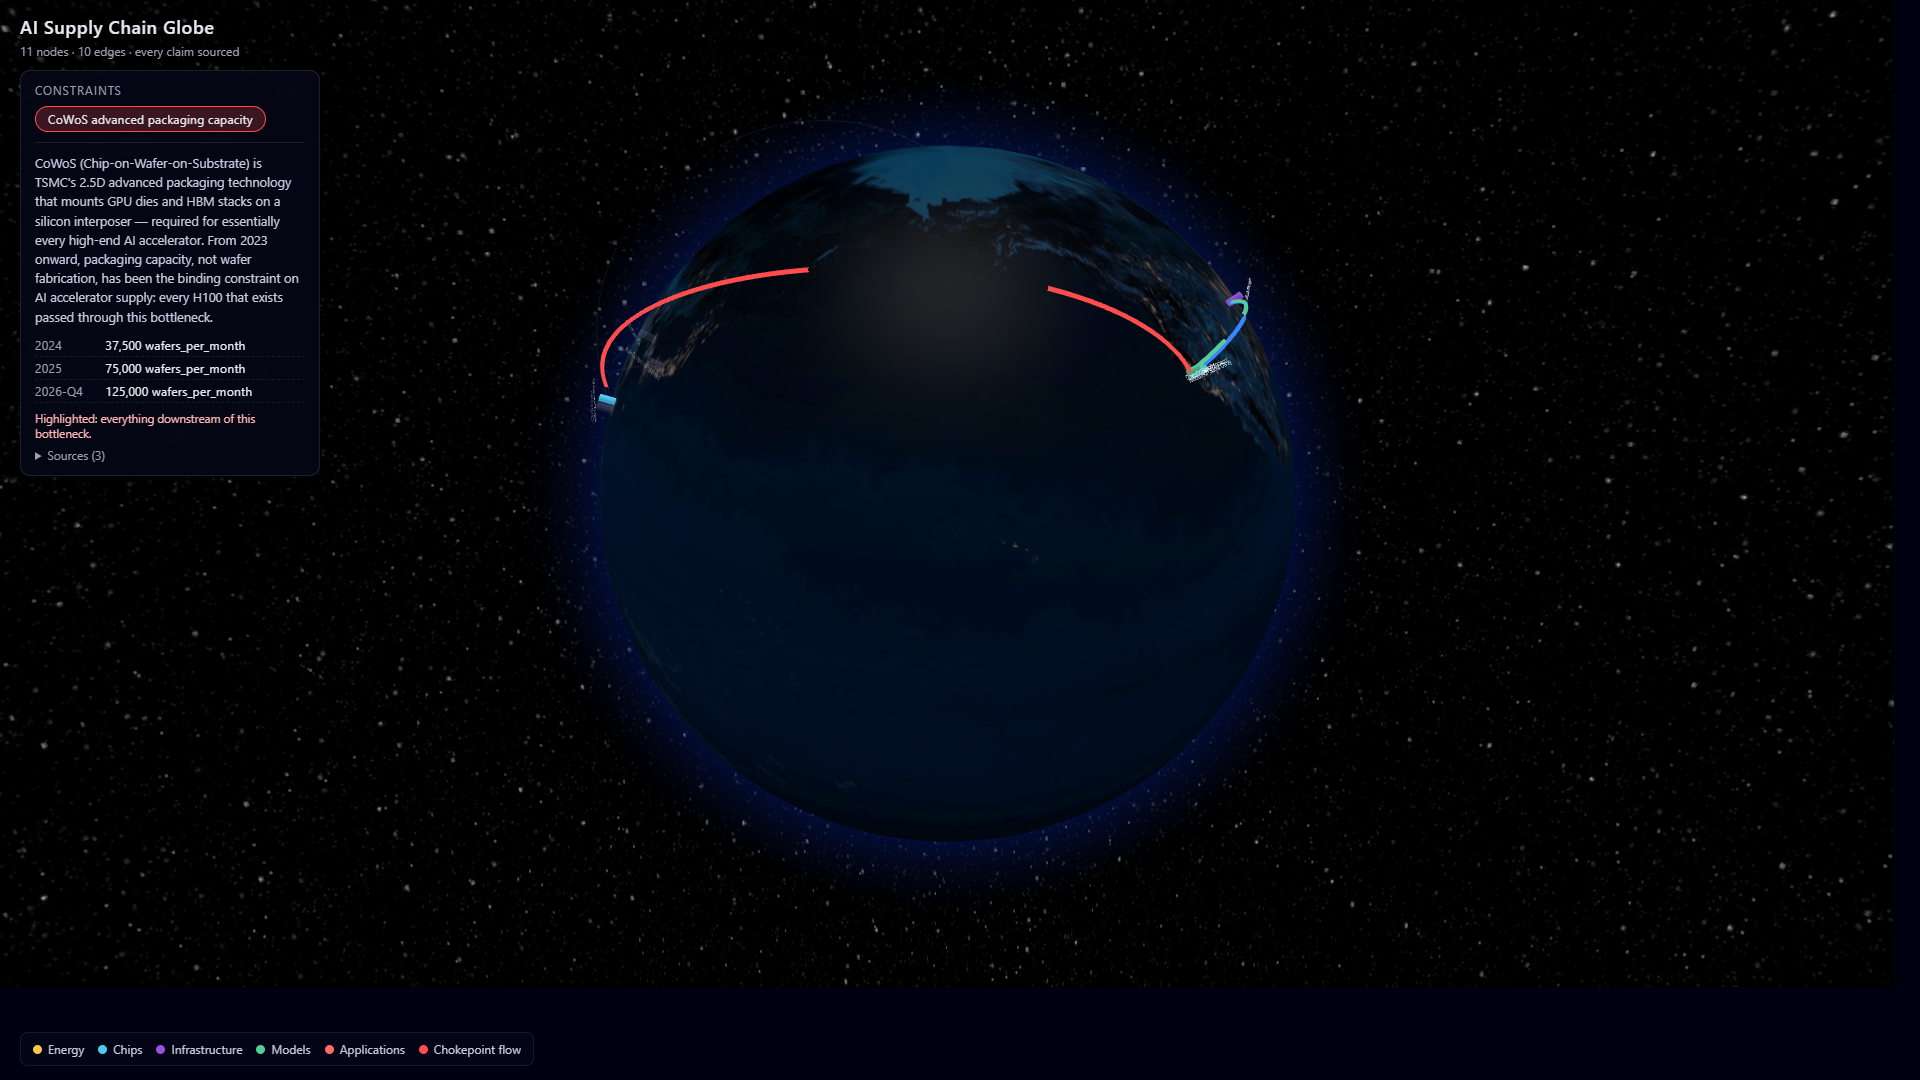
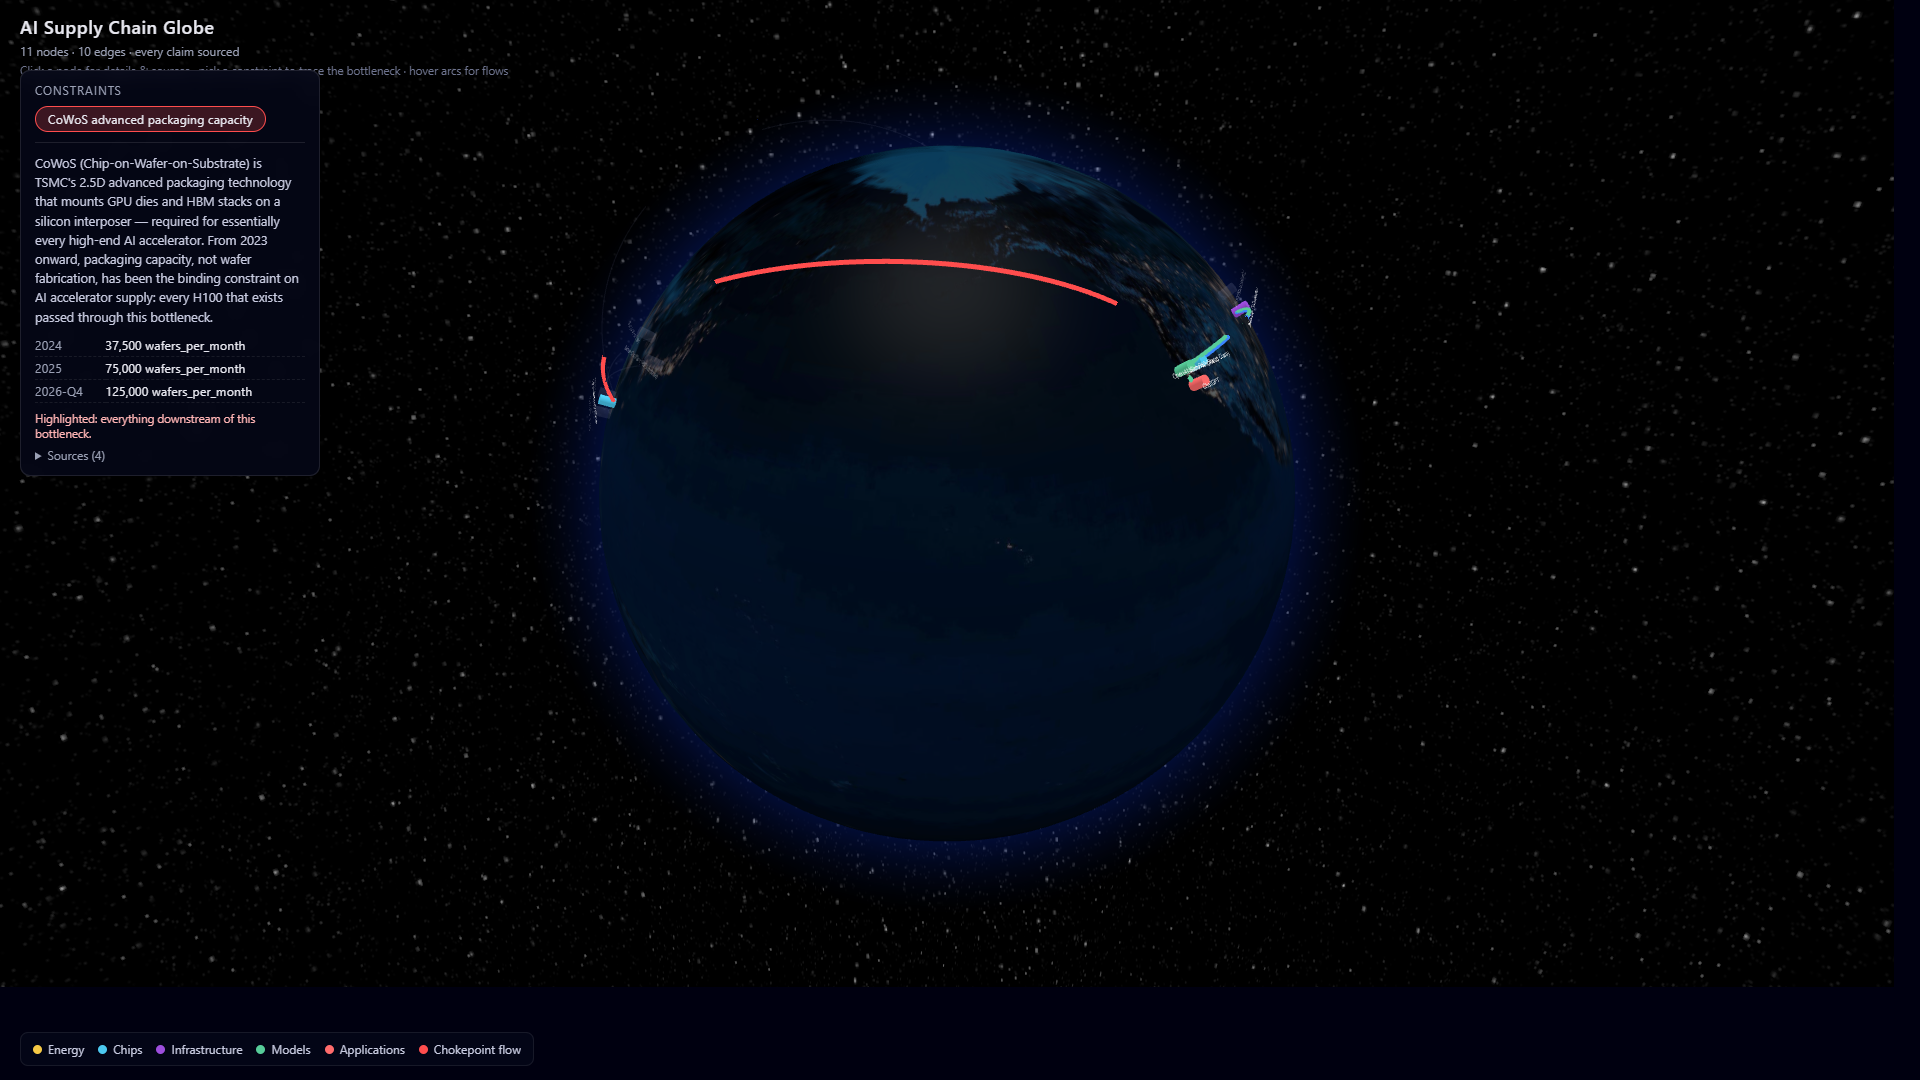
UI legibility + research-grade sources (owner feedback round 1)
UI:
- Cartographic displacement: co-located nodes (OpenAI/ChatGPT/Nvidia,
  the two Des Moines nodes, Taiwan cluster) spread on a small ring,
  display-only - true coordinates untouched in data and side panel
- Arc animation time now scales with arc length so transoceanic flows
  no longer race; bigger point radius for easier clicking
- Header hint line for first-time/business viewers
- README note documenting the displacement technique

Sources (5 new, all dated):
- SemiAnalysis "AI Capacity Constraints: CoWoS and HBM" (2023-07-05),
  verbatim free-portion quote, on the constraint + HBM edge
- SemiAnalysis GPT-4 architecture deep-dive (2023-07-10) on OpenAI node
  + Azure->OpenAI edge
- Epoch AI GPT-4 training compute estimate: first real edge weight
  (2e25 FLOP, +/-5x, marked as estimate) on the compute edge
- Asianometry "What's Next For ASML?" (2024-06-16) with EUV throughput
  quote on the ASML node

Screenshots recaptured with the new visuals.

diff --git a/frontend/src/components/GlobeView.tsx b/frontend/src/components/GlobeView.tsx
@@ -31,10 +31,64 @@ interface ArcDatum {
   color: string;
   label: string;
   emphasized: boolean;
+  animTime: number;
 }
 
 function escapeHtml(s: string): string {
   return s.replace(/&/g, "&amp;").replace(/</g, "&lt;").replace(/>/g, "&gt;");
+}
+
+/**
+ * Display-only cartographic displacement: nodes within ~2° of each other
+ * (OpenAI/ChatGPT share coordinates; Nvidia is ~60km away; the two Des
+ * Moines nodes nearly touch) get spread on a small ring around their
+ * shared centroid so each dot is legible and clickable. True coordinates
+ * remain untouched in the vault and in the side panel.
+ */
+function displacedPositions(nodes: GraphNode[]): Map<string, { lat: number; lng: number }> {
+  const CLUSTER_DEG = 2.2;
+  const RING_DEG = 1.6;
+  const groups: GraphNode[][] = [];
+  for (const node of nodes) {
+    const group = groups.find((g) =>
+      g.some(
+        (m) =>
+          Math.abs(m.location.lat - node.location.lat) < CLUSTER_DEG &&
+          Math.abs(m.location.lon - node.location.lon) < CLUSTER_DEG
+      )
+    );
+    if (group) group.push(node);
+    else groups.push([node]);
+  }
+
+  const positions = new Map<string, { lat: number; lng: number }>();
+  for (const group of groups) {
+    if (group.length === 1) {
+      const n = group[0];
+      positions.set(n.id, { lat: n.location.lat, lng: n.location.lon });
+      continue;
+    }
+    const centerLat = group.reduce((s, n) => s + n.location.lat, 0) / group.length;
+    const centerLng = group.reduce((s, n) => s + n.location.lon, 0) / group.length;
+    const sorted = [...group].sort((a, b) => a.id.localeCompare(b.id));
+    sorted.forEach((n, i) => {
+      const angle = (2 * Math.PI * i) / sorted.length - Math.PI / 2;
+      positions.set(n.id, {
+        lat: centerLat + RING_DEG * Math.sin(angle),
+        lng: centerLng + (RING_DEG * Math.cos(angle)) / Math.max(0.3, Math.cos((centerLat * Math.PI) / 180)),
+      });
+    });
+  }
+  return positions;
+}
+
+/** Great-circle angular distance in degrees. */
+function angularDistanceDeg(aLat: number, aLng: number, bLat: number, bLng: number): number {
+  const r = Math.PI / 180;
+  const cosD =
+    Math.sin(aLat * r) * Math.sin(bLat * r) +
+    Math.cos(aLat * r) * Math.cos(bLat * r) * Math.cos((aLng - bLng) * r);
+  return Math.acos(Math.min(1, Math.max(-1, cosD))) / r;
 }
 
 export default function GlobeView({
@@ -66,16 +120,17 @@ export default function GlobeView({
     globe.renderer().domElement.addEventListener("pointerdown", stop, { once: true });
   }, []);
 
+  const displayPos = useMemo(() => displacedPositions(graph.nodes), [graph]);
+
   const points = useMemo<PointDatum[]>(
     () =>
       graph.nodes
         .filter((node) => !hiddenLayers.has(node.layer))
         .map((node) => ({
           node,
-          lat: node.location.lat,
-          lng: node.location.lon,
+          ...displayPos.get(node.id)!,
         })),
-    [graph, hiddenLayers]
+    [graph, hiddenLayers, displayPos]
   );
 
   const nodeById = useMemo(() => {
@@ -95,13 +150,20 @@ export default function GlobeView({
         // low-substitutability alone is common in this graph and is shown
         // in tooltips instead, so red stays scarce and meaningful.)
         const emphasized = (e.constraints?.length ?? 0) > 0;
+        const start = displayPos.get(from.id)!;
+        const end = displayPos.get(to.id)!;
+        // Constant dash time makes long arcs sweep absurdly fast; scale
+        // animation time with distance so flow speed feels uniform.
+        const dist = angularDistanceDeg(start.lat, start.lng, end.lat, end.lng);
+        const animTime = Math.min(9000, Math.max(2000, 1400 + dist * 65));
         return [
           {
             id: e.id,
-            startLat: from.location.lat,
-            startLng: from.location.lon,
-            endLat: to.location.lat,
-            endLng: to.location.lon,
+            startLat: start.lat,
+            startLng: start.lng,
+            endLat: end.lat,
+            endLng: end.lng,
+            animTime,
             color: emphasized ? "#ff4d4d" : FLOW_COLORS[e.flow_type] ?? "#888",
             label: `<div class="tooltip"><b>${escapeHtml(from.name)} → ${escapeHtml(
               to.name
@@ -114,7 +176,7 @@ export default function GlobeView({
           },
         ];
       }),
-    [graph, nodeById, hiddenLayers]
+    [graph, nodeById, hiddenLayers, displayPos]
   );
 
   const pointLabel = (d: object) => {
@@ -153,7 +215,7 @@ export default function GlobeView({
       pointAltitude={(d: object) =>
         (d as PointDatum).node.id === selectedId ? 0.09 : 0.04
       }
-      pointRadius={0.55}
+      pointRadius={0.75}
       pointLabel={pointLabel}
       onPointClick={(d: object) => onSelect((d as PointDatum).node.id)}
       onGlobeClick={() => onSelect(null)}
@@ -170,7 +232,7 @@ export default function GlobeView({
       }}
       arcDashLength={0.45}
       arcDashGap={0.25}
-      arcDashAnimateTime={2500}
+      arcDashAnimateTime={(d: object) => (d as ArcDatum).animTime}
       arcAltitudeAutoScale={0.4}
       arcLabel={(d: object) => (d as ArcDatum).label}
       labelsData={points}

diff --git a/frontend/src/App.tsx b/frontend/src/App.tsx
@@ -75,6 +75,10 @@ export default function App() {
           {graph.meta.counts.nodes} nodes · {graph.meta.counts.edges} edges ·
           every claim sourced
         </span>
+        <span className="header-hint">
+          Click a node for details &amp; sources · pick a constraint to trace
+          the bottleneck · hover arcs for flows
+        </span>
       </header>
       <GlobeView
         graph={graph}

diff --git a/frontend/src/index.css b/frontend/src/index.css
@@ -47,6 +47,13 @@ body,
   color: #9aa0b4;
 }
 
+.header-hint {
+  display: block;
+  margin-top: 3px;
+  font-size: 0.72rem;
+  color: #6f7590;
+}
+
 .legend {
   position: absolute;
   bottom: 14px;

diff --git a/vault/edges/azure-wdm-to-openai.md b/vault/edges/azure-wdm-to-openai.md
@@ -4,9 +4,9 @@ from: azure-west-des-moines
 to: openai-hq
 flow_type: compute
 volume:
-  value: null
-  unit: null
-  as_of: 2022-Q3
+  value: 2.0e+25
+  unit: flop_training_total_gpt4_estimate
+  as_of: 2023-03
 lead_time_weeks: null
 constraint_level: high
 substitutability: low
@@ -14,8 +14,11 @@ constraints: []
 notes: >
   Training compute. The West Des Moines campus hosted the supercomputer
   Microsoft built exclusively for OpenAI, on which GPT-4 was trained
-  (training completed August 2022 per AP reporting). Substitutability low:
-  Azure was OpenAI's exclusive cloud provider during this period.
+  (training completed August 2022 per AP reporting). Volume is Epoch AI's
+  GPT-4 training compute estimate (~2e25 FLOP, stated accurate within a
+  factor of five) — an independent research estimate, not a disclosure.
+  Substitutability low: Azure was OpenAI's exclusive cloud provider during
+  this period.
 sources:
   - url: https://thehill.com/homenews/ap/ap-technology/ap-artificial-intelligence-technology-behind-chatgpt-was-built-in-iowa-with-a-lot-of-water/
     title: "AP: Artificial intelligence technology behind ChatGPT was built in Iowa — with a lot of water (syndicated)"
@@ -26,6 +29,15 @@ sources:
     title: "Microsoft announces new supercomputer, lays out vision for future AI work"
     date: 2020-05-19
     supports: exclusive Azure supercomputer built for OpenAI
+  - url: https://epoch.ai/data-insights/models-over-1e25-flop
+    title: "Over 30 AI models have been trained at the scale of GPT-4 (Epoch AI, accessed 2026-06)"
+    date: 2026-06
+    quote: "GPT-4 was the first model trained at this scale (~2e25 FLOP), released in March 2023."
+    supports: volume (training compute estimate)
+  - url: https://semianalysis.com/2023/07/10/gpt-4-architecture-infrastructure/
+    title: "GPT-4 Architecture, Infrastructure, Training Dataset, Costs, Vision, MoE (SemiAnalysis)"
+    date: 2023-07-10
+    supports: training infrastructure analysis (cluster scale, parallelism)
 ---
 
 # azure-west-des-moines → openai-hq

diff --git a/vault/nodes/models/openai-hq.md b/vault/nodes/models/openai-hq.md
@@ -22,6 +22,10 @@ sources:
     title: "OpenAI surges past 1M sf of offices in SF with latest Mission Bay lease"
     date: 2026-03-16
     supports: location (Mission Bay, San Francisco campus)
+  - url: https://semianalysis.com/2023/07/10/gpt-4-architecture-infrastructure/
+    title: "GPT-4 Architecture, Infrastructure, Training Dataset, Costs, Vision, MoE (SemiAnalysis)"
+    date: 2023-07-10
+    supports: GPT-4 scale and architecture analysis (independent estimates)
 ---
 
 # OpenAI (San Francisco)
@@ -34,6 +38,11 @@ buildings (1455/1515 Third Street, 550 Terry Francois Blvd, 1800 Owens St).
 
 Coordinates are the San Francisco city centroid, precision `city` — the
 multi-building campus makes a single site coordinate misleading anyway.
+
+Scale context (SemiAnalysis estimates, not OpenAI disclosures): GPT-4 as a
+~1.8T-parameter mixture-of-experts model trained on ~13T tokens — the
+demand signal that, multiplied across every frontier lab, is what pulls on
+every upstream node in this graph.
 
 **Reviewer notes:** In M2, the *training cluster* should become its own
 node (sited at the Azure campus) and the *model artifact* (GPT-4) a third,

diff --git a/vault/edges/sk-hynix-to-tsmc-ap6.md b/vault/edges/sk-hynix-to-tsmc-ap6.md
@@ -26,6 +26,11 @@ sources:
     title: "HBM3 Initially Exclusively Supplied by SK Hynix, Samsung Rallies Fast After AMD Validation"
     date: 2024-03-13
     supports: initial exclusivity, later second-sourcing
+  - url: https://newsletter.semianalysis.com/p/ai-capacity-constraints-cowos-and
+    title: "AI Capacity Constraints: CoWoS and HBM (SemiAnalysis)"
+    date: 2023-07-05
+    quote: "CoWoS and HBM are already majority AI-facing technologies, so all slack was already absorbed in Q1. With GPU demand exploding, these are the parts of the supply chain that just cannot keep up and are bottlenecking GPU supply."
+    supports: HBM as a co-binding constraint with CoWoS (2023)
 ---
 
 # sk-hynix-icheon → tsmc-ap6-zhunan

diff --git a/vault/constraints/cowos-capacity.md b/vault/constraints/cowos-capacity.md
@@ -37,6 +37,11 @@ sources:
     title: "TSMC Ramps up CoWoS Capacity across Taiwan, Projected to Nearly Triple by 2026"
     date: 2024-12-13
     supports: 2026 projection, multi-site expansion
+  - url: https://newsletter.semianalysis.com/p/ai-capacity-constraints-cowos-and
+    title: "AI Capacity Constraints: CoWoS and HBM (SemiAnalysis)"
+    date: 2023-07-05
+    quote: "CoWoS and HBM are already majority AI-facing technologies, so all slack was already absorbed in Q1. With GPU demand exploding, these are the parts of the supply chain that just cannot keep up and are bottlenecking GPU supply."
+    supports: CoWoS as the binding bottleneck on GPU supply (2023)
 ---
 
 # CoWoS advanced packaging capacity

diff --git a/README.md b/README.md
@@ -91,6 +91,12 @@ public number exists — per-customer CoWoS allocation, campus-level MW —
 the field is `null` with a note explaining why. An honest unknown beats a
 plausible guess.
 
+One rendering note: nodes that share or nearly share coordinates (e.g.
+OpenAI and ChatGPT, both anchored to San Francisco) are slightly displaced
+on the globe for legibility and clickability — a standard cartographic
+technique. True coordinates are untouched in the data and shown in the
+side panel.
+
 Globe textures: NASA-derived imagery via the
 [three-globe](https://github.com/vasturiano/three-globe) example assets.
 Stock data: Yahoo Finance via yfinance — display only, not investment advice.

diff --git a/vault/nodes/chips/asml-veldhoven.md b/vault/nodes/chips/asml-veldhoven.md
@@ -29,6 +29,11 @@ sources:
     title: "TSMC now reportedly operates over half of global EUVs, weighs high-NA adoption"
     date: 2024-11
     supports: role as the EUV supplier to leading-edge fabs
+  - url: https://www.asianometry.com/p/whats-next-for-asml
+    title: "What's Next For ASML? (Asianometry, Jon Y)"
+    date: 2024-06-16
+    quote: "The first EUV machine took 23 hours to pattern a single wafer. Today's best EUV machines can do 180 wafers per hour."
+    supports: EUV technology maturity and throughput context
 ---
 
 # ASML Veldhoven (HQ & EUV production)
